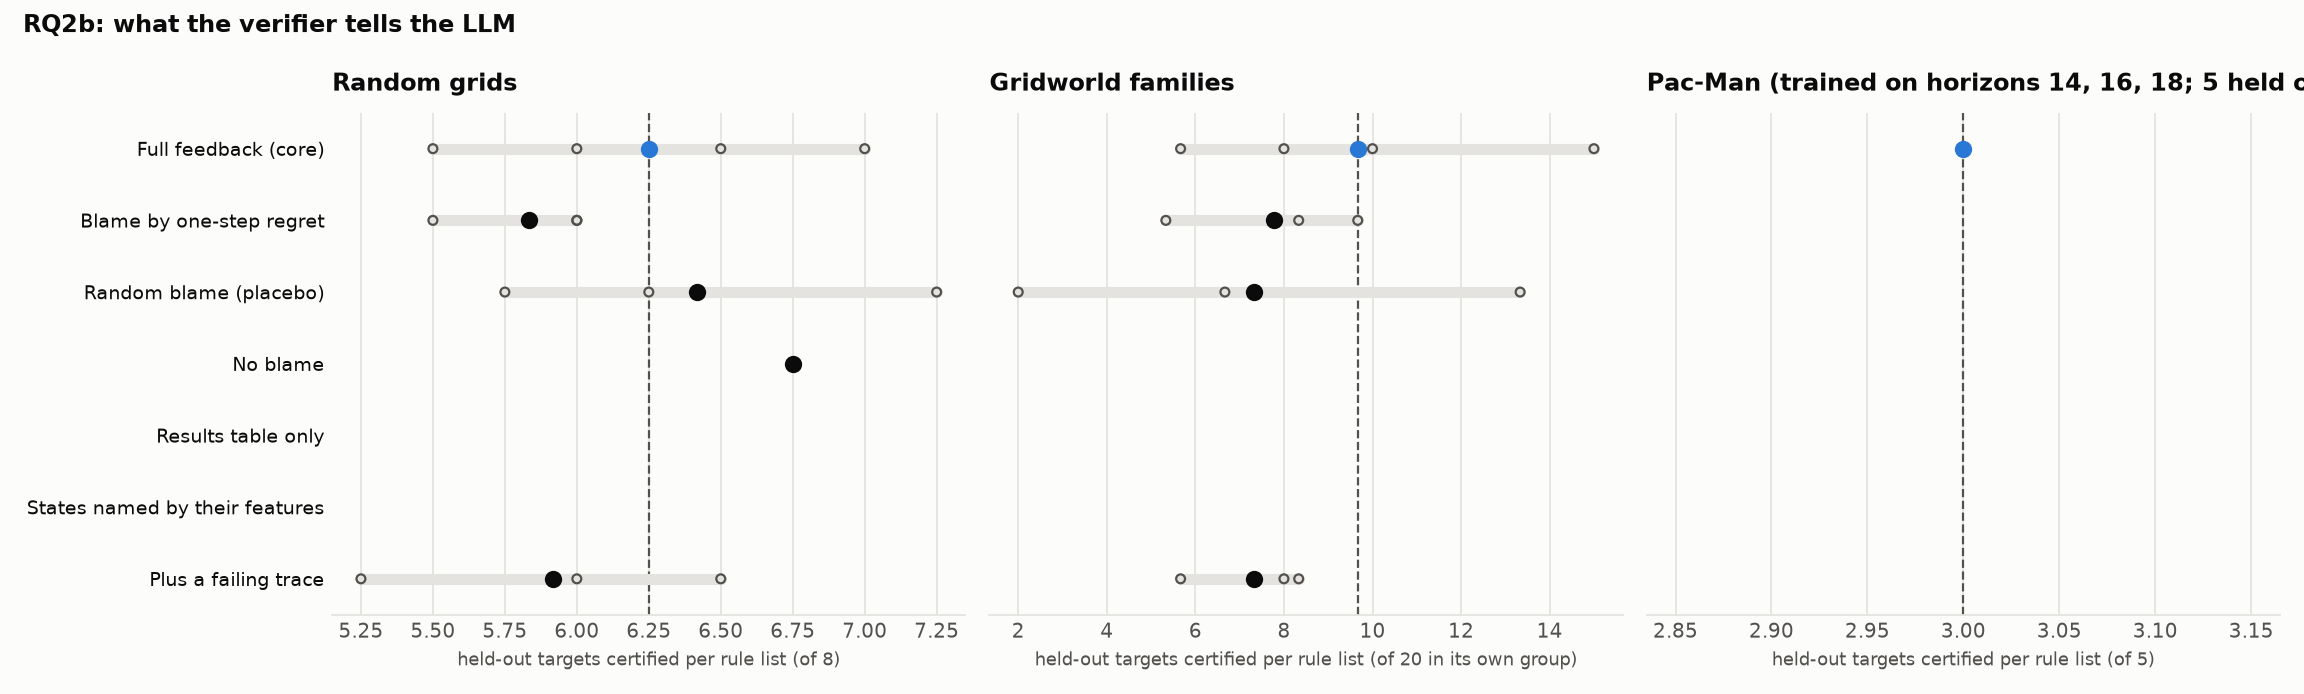
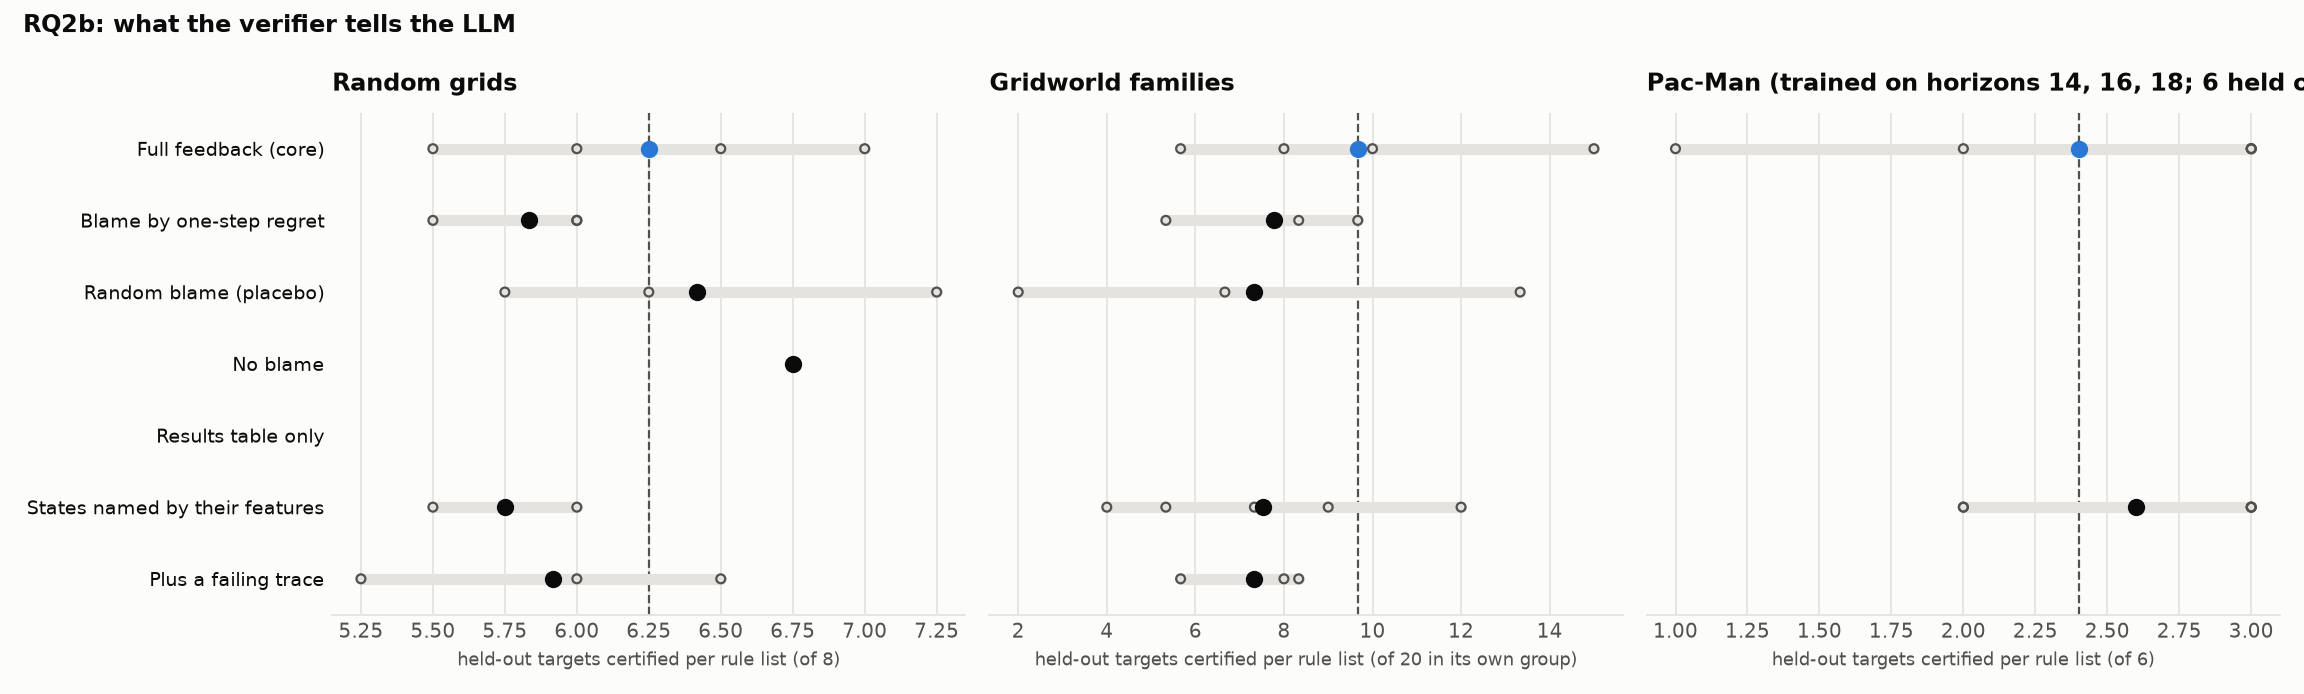
[plan 04] step 5: instance-specific rules per kind of feedback; RQ2b report with the feature-space cell
out/results/experiments/rq2_verifier_output/instance_specific.{md,csv} (src/rule_specificity.py): position
conditions, offsets and relations between constants are almost absent under every feedback (at most 0.2
of ~9 conditions per grid list, none on families or Pac-Man), coordinates or feature space alike; feedback
lists are longer than restarts-only lists. REPORT.md regenerated: feature space 5/5 on every benchmark
(Pac-Man's horizon-30 certification still running); other cells being launched.

diff --git a/PRISM-Guided-Learning/out/results/experiments/rq2_verifier_output/REPORT.md b/PRISM-Guided-Learning/out/results/experiments/rq2_verifier_output/REPORT.md
@@ -15,7 +15,7 @@ Targets 12-19 (each list's own training instances left out); certified of 8.
 | Random blame (placebo) | Random | 3 | 6.42 (5.75–7.25) | +0.17 [-0.52, +0.87] | 5.88 (5.50–6.25) | 8.0 | 8% (0%–25%) | 5.0 | 8,199 (7,158–9,660) |
 | No blame | No blame | 1 | 6.75 | +0.50 [+0.15, +0.85] | 6.00 | 8.0 | 25% | 4.2 | 8,890 |
 | Results table only | Table | 0 | – | – | – | – | – | – | – |
-| States named by their features | Feature space | 0 | – | – | – | – | – | – | – |
+| States named by their features | Feature space | 5 | 5.75 (5.50–6.00) | -0.50 [-0.90, -0.10] | 4.30 (3.75–5.00) | 8.0 | 5% (0%–25%) | 5.0 | 10,834 (9,866–13,117) |
 | Plus a failing trace | Trace | 3 | 5.92 (5.25–6.50) | -0.33 [-0.95, +0.27] | – | 8.0 | 25% | 4.7 (4.5–5.0) | 9,500 (7,462–12,570) |
 
 ## Gridworld families
@@ -29,7 +29,7 @@ Targets 16-35,76-95,136-155 (each list's own training instances left out); certi
 | Random blame (placebo) | Random | 3 | 7.33 (2.00–13.33) | -2.33 [-7.31, +2.56] | 3.00 (0.00–4.67) | 30.0 (22.0–41.0) | 33% | 4.1 (4.0–4.3) | 7,897 (6,781–9,393) |
 | No blame (1 unchecked) | No blame | 1 | – | – | – | – | 33% | 3.7 | 14,686 |
 | Results table only | Table | 0 | – | – | – | – | – | – | – |
-| States named by their features | Feature space | 0 | – | – | – | – | – | – | – |
+| States named by their features | Feature space | 5 | 7.53 (4.00–12.00) | -2.13 [-5.20, +1.00] | 1.60 (0.00–5.00) | 30.4 (23.0–43.0) | 33% | 4.3 (3.7–5.0) | 9,416 (7,164–13,912) |
 | Plus a failing trace | Trace | 3 | 7.33 (5.67–8.33) | -2.33 [-4.98, +0.07] | – | 28.7 (27.0–32.0) | 11% (0%–33%) | 4.8 (4.3–5.0) | 17,565 (13,475–21,488) |
 
 Per group (certified per rule list on its own group, mean over runs):
@@ -41,21 +41,21 @@ Per group (certified per rule list on its own group, mean over runs):
 | Random blame (placebo) | 7.0 | 1.7 | 13.3 |
 | No blame | – | – | – |
 | Results table only | – | – | – |
-| States named by their features | – | – | – |
+| States named by their features | 6.8 | 2.8 | 13.0 |
 | Plus a failing trace | 7.3 | 0.0 | 14.7 |
 
-## Pac-Man (trained on horizons 14, 16, 18; 5 held out: 8, 10, 12, 20, 25)
+## Pac-Man (trained on horizons 14, 16, 18; 6 held out: 8, 10, 12, 20, 25, 30)
 
-Targets 0-7 (each list's own training instances left out); certified of 5.
+Targets 0-7,9 (each list's own training instances left out); certified of 6.
 
 | condition | code | runs | certified | Δ vs reference | ties open | library | sets solved | rounds / set | output tokens / set |
 |---|---|---|---|---|---|---|---|---|---|
-| Full feedback (core) | Full | 3 | 3.00 | reference | – | 3.0 | 67% (0%–100%) | 4.0 (3.0–5.0) | 4,649 (3,555–6,328) |
+| Full feedback (core) | Full | 5 | 2.40 (1.00–3.00) | reference | 2.40 (1.00–3.00) | 2.4 (1.0–3.0) | 40% (0%–100%) | 4.4 (3.0–5.0) | 5,712 (3,555–8,223) |
 | Blame by one-step regret | Regret | 0 | – | – | – | – | – | – | – |
 | Random blame (placebo) | Random | 0 | – | – | – | – | – | – | – |
 | No blame | No blame | 0 | – | – | – | – | – | – | – |
 | Results table only | Table | 0 | – | – | – | – | – | – | – |
-| States named by their features | Feature space | 0 | – | – | – | – | – | – | – |
+| States named by their features (4 unchecked) | Feature space | 5 | 2.60 (2.00–3.00) | +0.20 [-0.40, +1.00] | 2.60 (2.00–3.00) | 2.6 (2.0–3.0) | 60% (0%–100%) | 4.0 (2.0–5.0) | 4,848 (1,904–7,291) |
 | Plus a failing trace | Trace | 0 | – | – | – | – | – | – | – |
 
 ![RQ2b: what the verifier tells the LLM](rq2_verifier_output.png)

diff --git a/PRISM-Guided-Learning/out/results/experiments/rq2_verifier_output/instance_specific.md b/PRISM-Guided-Learning/out/results/experiments/rq2_verifier_output/instance_specific.md
@@ -1,0 +1,31 @@
+## grids
+
+| feedback | runs | final: conditions | reading a position | specific | position | offset | constants | rounds 2+: specific / conditions | blamed rules rewritten | other rules rewritten |
+|---|---|---|---|---|---|---|---|---|---|---|
+| Full feedback (core) | 5 | 9.2 | 0.2 | 0.2 | 0.2 | 0.0 | 0.0 | 0.2 / 9.3 | 9% of 765 | 11% of 1461 |
+| Blame by one-step regret | 3 | 9.0 | 0.0 | 0.0 | 0.0 | 0.0 | 0.0 | 0.1 / 9.3 | 15% of 436 | 18% of 925 |
+| Random blame (placebo) | 3 | 8.6 | 0.0 | 0.0 | 0.0 | 0.0 | 0.0 | 0.1 / 9.3 | 7% of 480 | 9% of 864 |
+| No blame | 1 | 6.8 | 0.0 | 0.0 | 0.0 | 0.0 | 0.0 | 0.1 / 8.2 | – | – |
+| States named by their features | 5 | 8.8 | 0.0 | 0.0 | 0.0 | 0.0 | 0.0 | 0.1 / 9.3 | 13% of 784 | 20% of 1406 |
+| Plus a failing trace | 3 | 8.4 | 0.3 | 0.3 | 0.3 | 0.0 | 0.0 | 0.2 / 8.4 | 11% of 415 | 15% of 653 |
+| Restarts only (no feedback) | 5 | 6.7 | 0.0 | 0.0 | 0.0 | 0.0 | 0.0 | 0.0 / 7.2 | – | – |
+
+## families
+
+| feedback | runs | final: conditions | reading a position | specific | position | offset | constants | rounds 2+: specific / conditions | blamed rules rewritten | other rules rewritten |
+|---|---|---|---|---|---|---|---|---|---|---|
+| Full feedback (core) | 5 | 6.9 | 0.0 | 0.0 | 0.0 | 0.0 | 0.0 | 0.0 / 7.7 | 19% of 391 | 20% of 657 |
+| Blame by one-step regret | 3 | 6.7 | 0.1 | 0.0 | 0.0 | 0.0 | 0.0 | 0.3 / 6.9 | 18% of 300 | 11% of 424 |
+| Random blame (placebo) | 3 | 7.6 | 0.0 | 0.0 | 0.0 | 0.0 | 0.0 | 0.0 / 7.8 | 18% of 279 | 19% of 380 |
+| No blame | 1 | 7.0 | 0.7 | 0.0 | 0.0 | 0.0 | 0.0 | 0.0 / 8.0 | – | – |
+| States named by their features | 5 | 7.9 | 0.3 | 0.0 | 0.0 | 0.0 | 0.0 | 0.0 / 8.2 | 23% of 438 | 16% of 700 |
+| Plus a failing trace | 3 | 7.8 | 0.6 | 0.1 | 0.1 | 0.0 | 0.0 | 0.2 / 8.2 | 14% of 325 | 12% of 530 |
+| Restarts only (no feedback) | 5 | 5.6 | 0.0 | 0.0 | 0.0 | 0.0 | 0.0 | 0.0 / 6.2 | – | – |
+
+## pacman
+
+| feedback | runs | final: conditions | reading a position | specific | position | offset | constants | rounds 2+: specific / conditions | blamed rules rewritten | other rules rewritten |
+|---|---|---|---|---|---|---|---|---|---|---|
+| Full feedback (core) | 5 | 6.8 | 0.0 | 0.0 | 0.0 | 0.0 | 0.0 | 0.0 / 5.8 | 24% of 29 | 9% of 286 |
+| States named by their features | 5 | 5.0 | 0.0 | 0.0 | 0.0 | 0.0 | 0.0 | 0.0 / 5.3 | 13% of 15 | 9% of 231 |
+| Restarts only (no feedback) | 5 | 5.8 | 0.0 | 0.0 | 0.0 | 0.0 | 0.0 | 0.0 / 6.0 | – | – |
